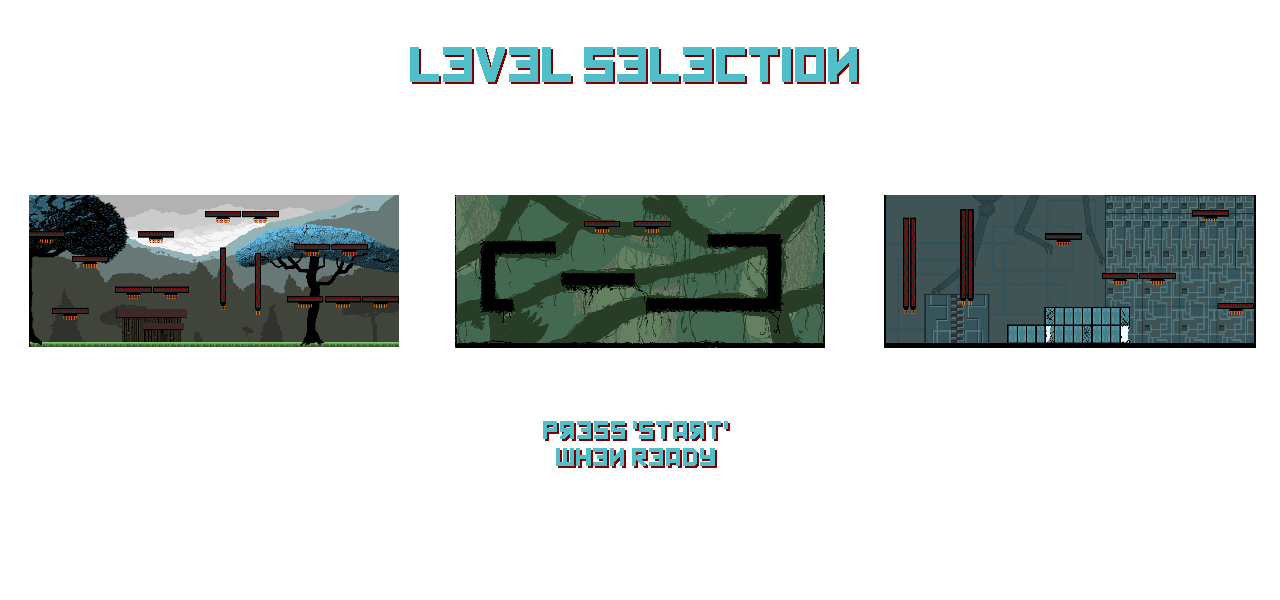
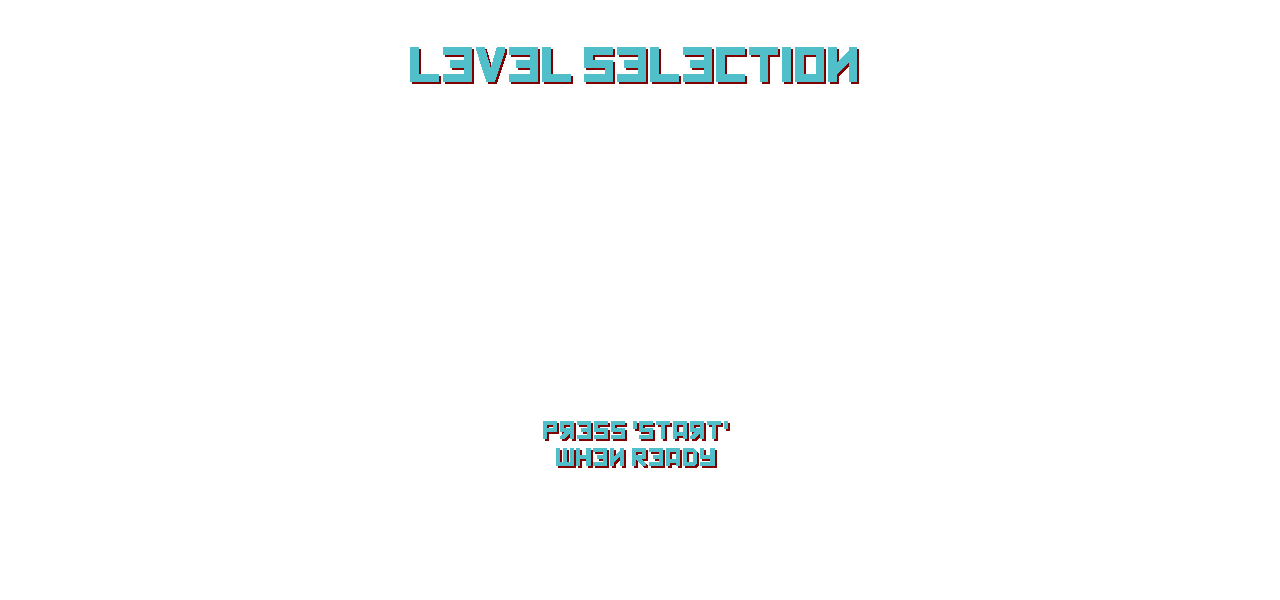
(1)-Rewrite/simplification of LevelSelectPage within pages.py module,  (2)-Removed arenas from 'bg_level_select2.png' as they are now implemented programmatically from the arena image files,  (3)-Modified Rect2 to be able to add pygame objects as a self attribute,  (4)-Added colors,  (5)-Added new p

Changed region(s): [[0.3438, 0.3, 0.6562, 0.6], [0.6875, 0.3, 1.0, 0.6], [0.0, 0.3, 0.3125, 0.6]]

diff --git a/pages.py b/pages.py
@@ -333,25 +333,24 @@ class PlayerSelectPage:
                 GL.NEXT_PAGE = '_start'
 
 # ----------------------------------------------------------------------------
+# noinspection PyStatementEffect
 class LevelSelectPage:
     def __init__(self):
-        def _setup_display():
-            self.return_button = PygButton((0, 550, 300, 50), 'Main Menu')
-            self.ready = False
+        self.return_button = PygButton((0, 550, 300, 50), 'Main Menu')
+        self.ready = False
+        self.bg_image = pygame.image.load('data/backgrounds/bg_level_select.png')
+        self.bg_image2 = pygame.image.load('data/backgrounds/bg_level_select2.png')
 
-        def _load_images():
-            self.bg_image = pygame.image.load('data/backgrounds/bg_level_select.png')
-            self.bg_image2 = pygame.image.load('data/backgrounds/bg_level_select2.png')
-            self.humanLevel = pygame.image.load('data/backgrounds/arena_human.png')
-            self.elfLevel = pygame.image.load('data/backgrounds/arena_vines.png')
-            self.androidLevel = pygame.image.load('data/backgrounds/arena_android.png')
-            self.levels = [self.humanLevel, self.elfLevel, self.androidLevel]
-            self.outerX = [19, 444, 874]
-            self.innerX = [24, 450, 878]
-            self.index = 0
+        arena_image_size = (369, 153)
+        human_arena_image = image_scale(image_load('data/backgrounds/arena_human.png'), arena_image_size)
+        elf_arena_image = image_scale(image_load('data/backgrounds/arena_vines.png'), arena_image_size)
+        android_arena_image = image_scale(image_load('data/backgrounds/arena_android.png'), arena_image_size)
 
-        _setup_display()
-        _load_images()
+        human_arena = Rect2(topleft=(29, 194), size=arena_image_size, bg=human_arena_image, arena=GL.arena4)
+        elf_arena = Rect2(topleft=(444, 194), size=arena_image_size, bg=elf_arena_image, arena=GL.arena3)
+        android_arena = Rect2(topleft=(874, 194), size=arena_image_size, bg=android_arena_image, arena=GL.arena5)
+        self.levels = Deque2([human_arena, elf_arena, android_arena])
+
 
     def __call__(self):
         self.return_now = False
@@ -363,11 +362,14 @@ class LevelSelectPage:
 
     def draw(self):
         GL.SCREEN.blit(self.bg_image, (0, 0))
-        outer_highlight = Rect2(topleft=(self.outerX[self.index], 184), size = (389, 173), color=(20, 118, 128))
-        inner_highlight = Rect2(topleft=(self.innerX[self.index], 190), size=(379, 162), color=(80, 191, 201))
-        pygame.draw.rect(GL.SCREEN, outer_highlight.color, outer_highlight)
-        pygame.draw.rect(GL.SCREEN, inner_highlight.color, inner_highlight)
         GL.SCREEN.blit(self.bg_image2, (0, 0))
+        for level in self.levels:
+            if self.levels() == level:
+                outer = Rect2(left=level.left - 10, top=level.top - 10, width=level.width + 20, height=level.height + 20)
+                inner = Rect2(left=level.left - 5, top=level.top - 5, width=level.width + 10, height=level.height + 10)
+                pygame.draw.rect(GL.SCREEN, DKCYAN, outer)
+                pygame.draw.rect(GL.SCREEN, CYAN, inner)
+            GL.SCREEN.blit(level.bg, level.topleft)
         self.return_button.draw(GL.SCREEN)
         draw_mouse_debug()
         pygame.display.update()
@@ -376,38 +378,22 @@ class LevelSelectPage:
         GL.INPUT1.refresh()  # only player 1 can select level
 
         if GL.INPUT1.LEFT_EVENT:
-            self.index -= 1
-            if self.index < 0:
-                self.index = len(self.levels) - 1
+            +self.levels
 
         if GL.INPUT1.RIGHT_EVENT:
-            self.index += 1
-            if self.index >= len(self.levels):
-                self.index = 0
+            -self.levels
 
         if GL.INPUT1.CANCEL:
             GL.NEXT_PAGE = 'PlayerSelectPage()'
             self.return_now = True
 
-        def ready_check():
-            if GL.INPUT1.CONFIRM:
-                print('ready to load')
-                self.ready = True
-                set_level()
-                GL.NEXT_PAGE = 'GameLoop()'
-                self.return_now = True
-
-        def set_level():
-            print('setting level')
-            if self.index == 0:
-                GL.SELECTED_ARENA = Arena(arena4)
-            elif self.index == 1:
-                GL.SELECTED_ARENA = Arena(arena3)
-            elif self.index == 2:
-                GL.SELECTED_ARENA = Arena(arena5)
-            print('set level')
-
-        ready_check()
+        if GL.INPUT1.CONFIRM:
+            self.ready = True
+            print('Ready to load, setting arena ... ', end='')
+            GL.SELECTED_ARENA = Arena(self.levels().arena)
+            print('set.')
+            GL.NEXT_PAGE = 'GameLoop()'
+            self.return_now = True
 
     def events(self):
         for event in pygame.event.get():

diff --git a/globals.py b/globals.py
@@ -9,6 +9,8 @@ from collections import defaultdict
 # pygame
 import pygame
 from pygame.locals import *  # for event timers
+from pygame.transform import scale as image_scale
+from pygame.image import load as image_load
 
 # psutil  (download here:  http://www.lfd.uci.edu/~gohlke/pythonlibs/#psutil)
 try:
@@ -45,6 +47,8 @@ GREEN = Color(0, 255, 0)
 BLUE = Color(0, 0, 255)
 LLBLUE = Color(0, 0, 128)
 LBLUE = Color(0, 128, 255)
+CYAN = Color(80, 191, 201)
+DKCYAN = Color(20, 118, 128)
 SKYBLUE = Color(128, 223, 223)
 YELLOW = Color(255, 255, 0)
 DKYELLOW = Color(153, 153, 0)

diff --git a/classes.py b/classes.py
@@ -41,7 +41,10 @@ class Rect2(pygame.Rect):
                 except KeyError:
                     pass
         for k, v in kargs.items():
-            exec('self.{} = {}'.format(k, repr(v)))
+            try:
+                exec('self.{} = {}'.format(k, repr(v)))
+            except SyntaxError:
+                self.__dict__[k] = v
 
     def p_collidelist(self, li):
         """follows same logic as pygame.Rect.collidelist, but customized to
